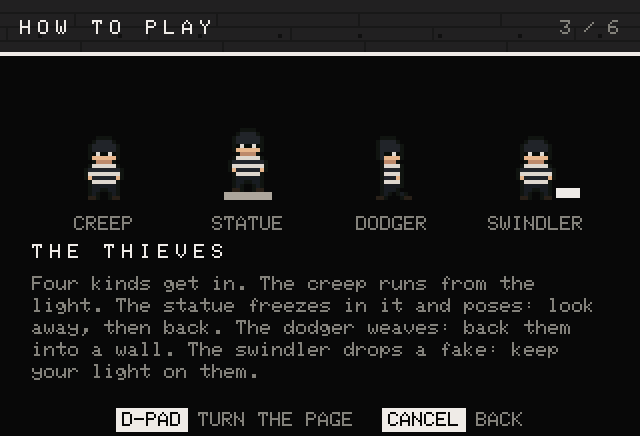
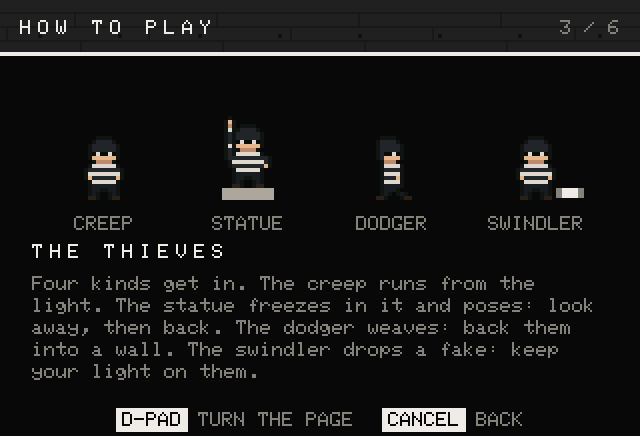
Thief poses: real arms for hands up, the reach and the statue
The raised arms were rectangles painted over a sprite that still had its
own arms at its sides, so the statue and the caught thief showed two
pairs. sprites.pose draws 12-wide poses with the arms off the shoulders
(hands up, reaching from behind, the statue's one arm up and hand on the
hip), used in the footage, caught in the act, the holding cell, the
gallery and how to play. Caught in the act: the thief springs back from
the wall before putting their hands up.

Changed region(s): [[0.3438, 0.2683, 0.4375, 0.4472], [0.8438, 0.4174, 0.9375, 0.4472]]

diff --git a/CHANGELOG.md b/CHANGELOG.md
@@ -37,6 +37,11 @@ characters, the nights have weather, and the caught leave calling cards.
   LEDs run a chase in its colour. A thief who gets away with the bar almost
   full: SO CLOSE.
 - How to play has a page on the thieves.
+- Thieves have real poses in the sprite sheet: hands up, reaching for a frame
+  from behind, and the statue's pose (one arm raised, a hand on the hip). The
+  footage and caught-in-the-act no longer paint raised arms over a sprite
+  that still has its own at its sides. Caught in the act, the thief springs
+  back from the wall before putting their hands up.
 
 - `pnpm build:web`: a static browser build of the app and its host
   (`dist/web/night-shift-<version>-<hash>/`), which the museum pins and serves
